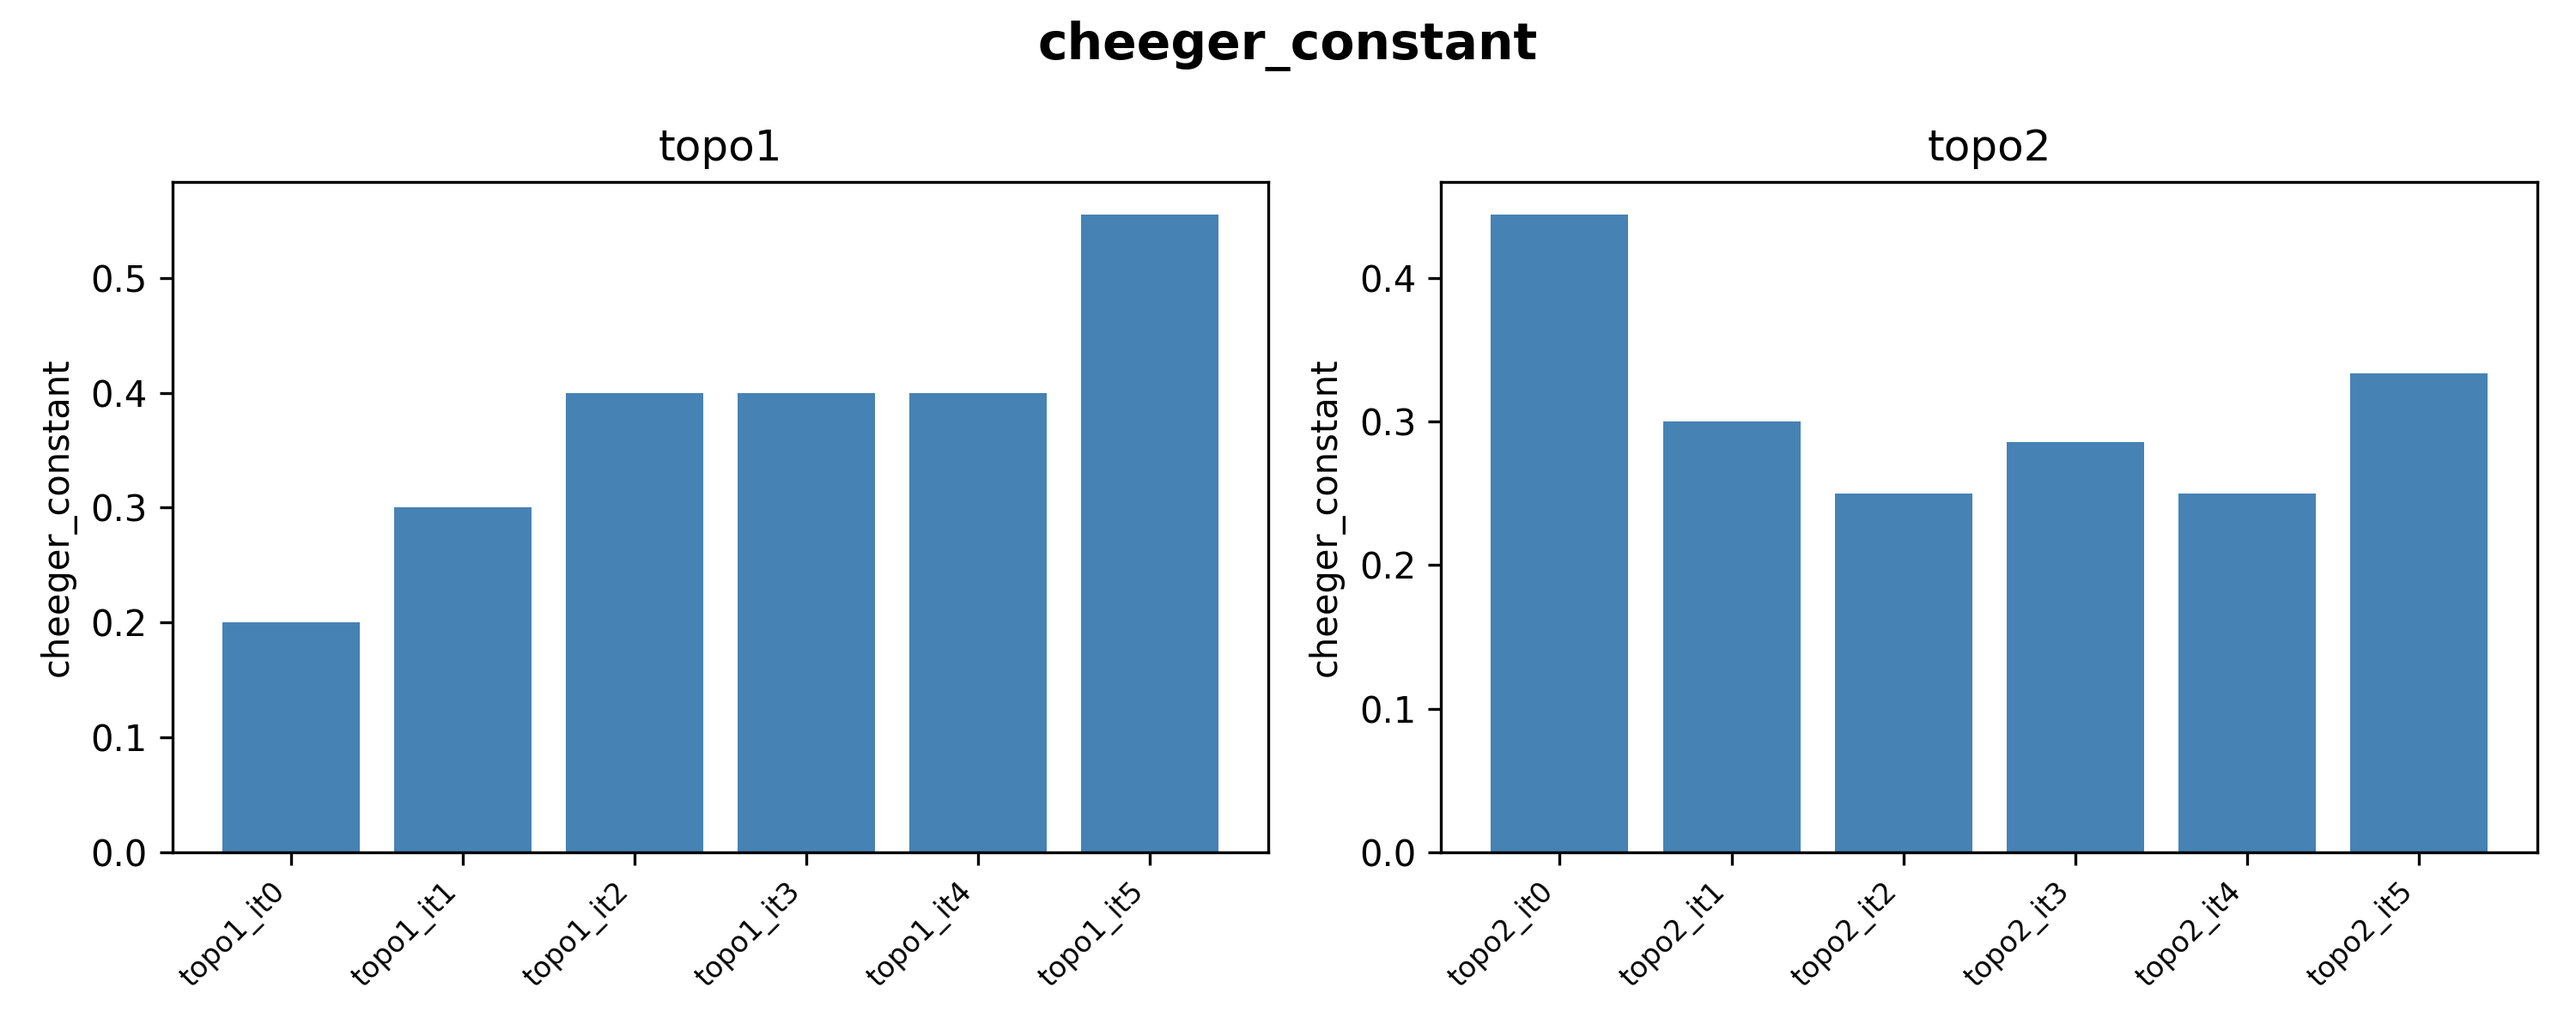
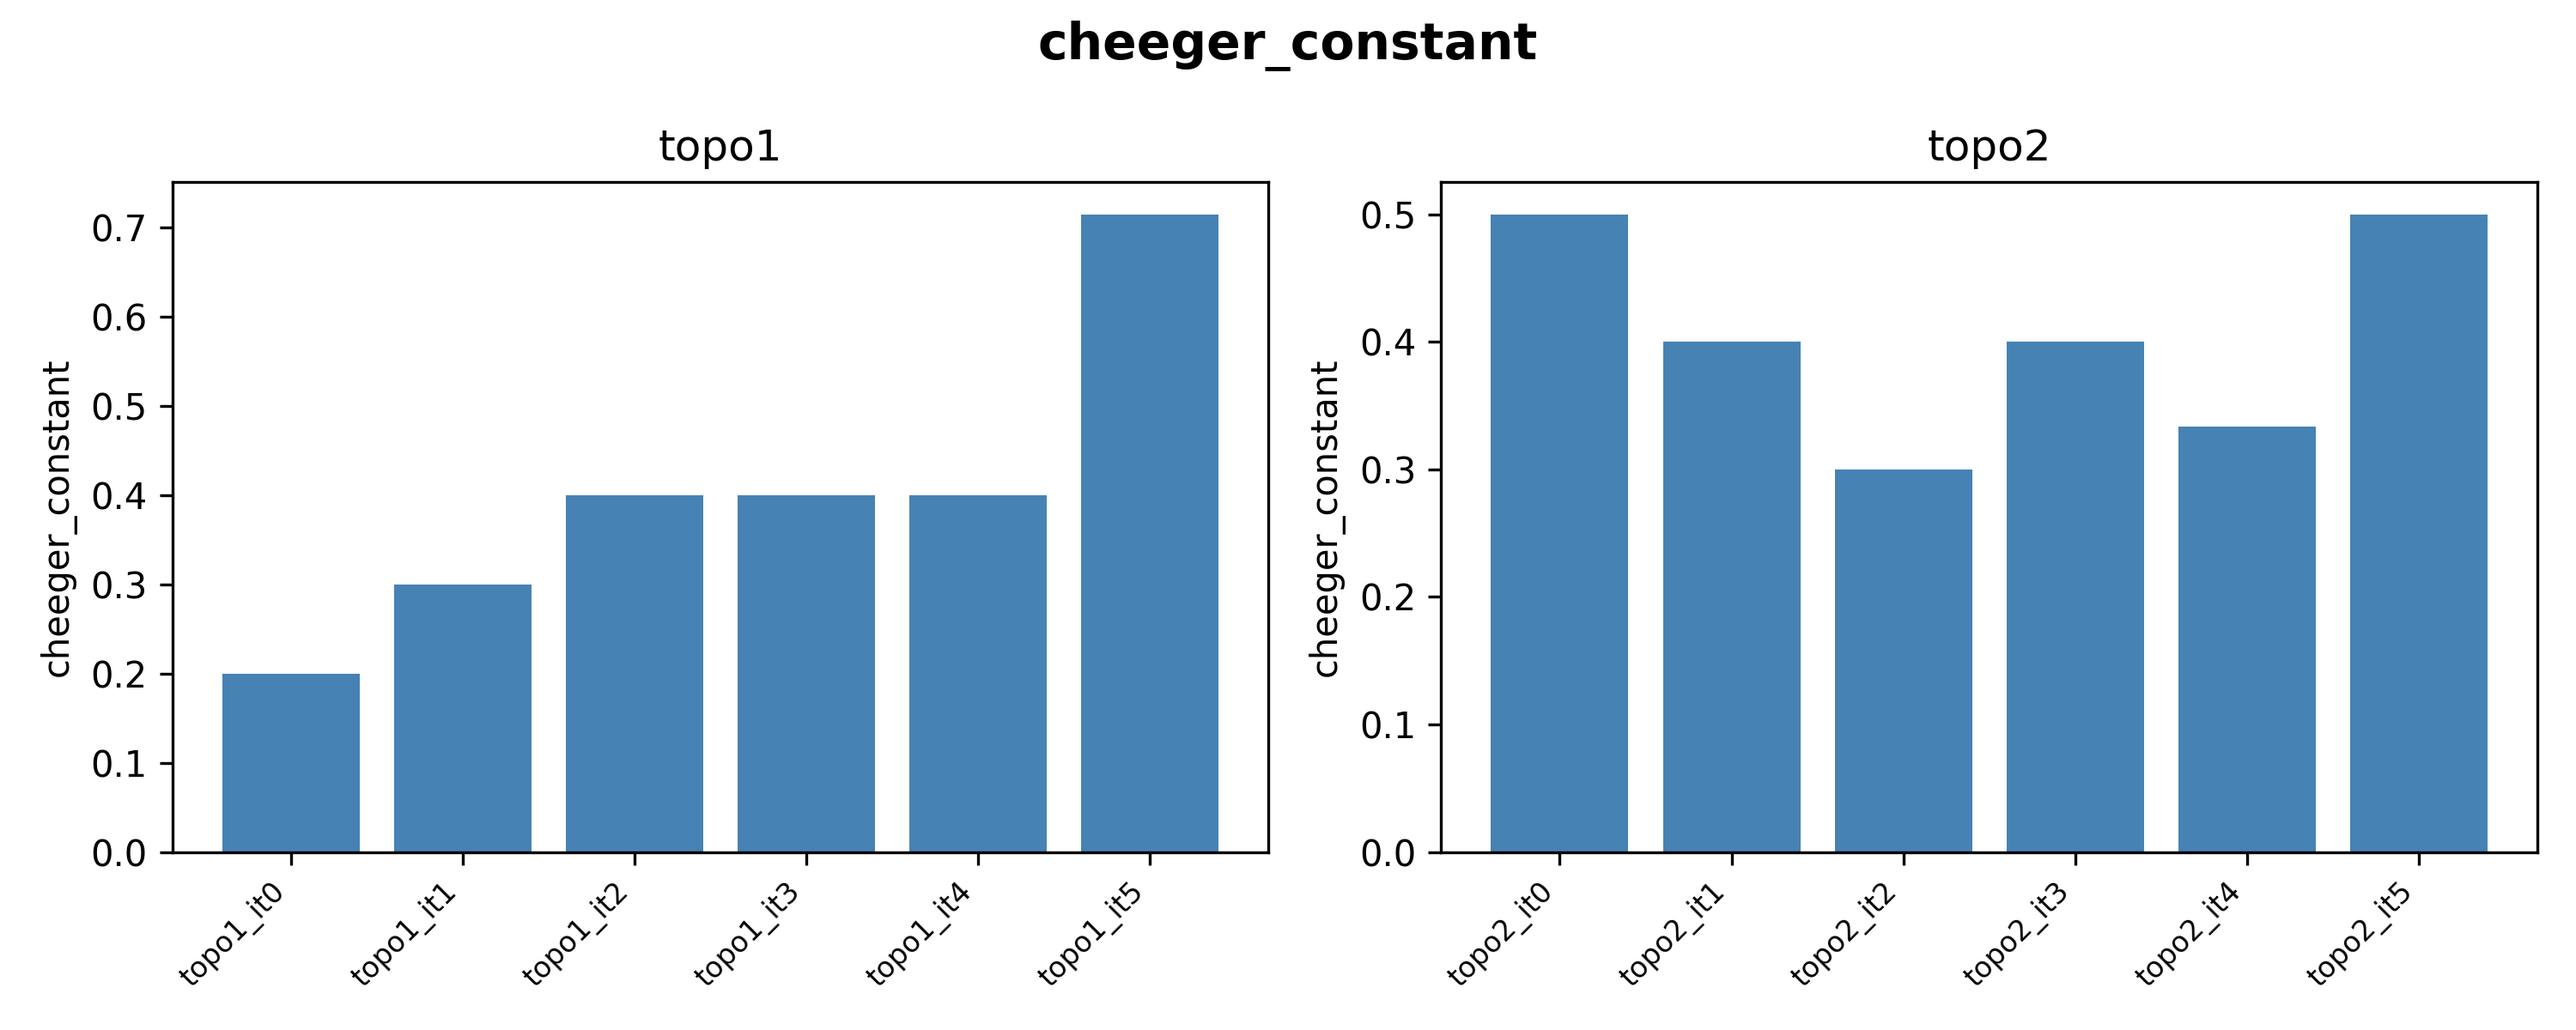
refactored optimizer code

diff --git a/scripts/network-partition-scipy.py b/scripts/network-partition-scipy.py
@@ -9,7 +9,7 @@ import argparse
 import matplotlib.pyplot as plt
 
 NR_PASSES = 5
-R_VALUES = [0.051, 0.15, 0.25, 0.35, 0.45]
+R_VALUES = [0.05, 0.15, 0.25, 0.35, 0.45]
 M = 0.05
 
 # --- Visualization / main (unchanged) ----------------------------------------
@@ -93,7 +93,11 @@ def initial_partition(n, r, mask_nodes):
     r = min(1-r, r)
     k = round(len(perm) * r)
     k = max(1, k)
-    return perm[:k]
+    A_idx = perm[:k]
+    assignment = torch.ones(n, dtype=torch.int32)
+    assignment[A_idx] = -1
+    assignment[mask_nodes] = 0
+    return assignment
 
 def calculate_prospective_cut_sizes(assignment, mask_bool):
     num_neg_total = (assignment == -1).sum().item()
@@ -120,10 +124,6 @@ def update_balanced(balanced, assignment, r, mask_bool):
 
 def partition_pass(adj_sp, r, mode="min", mask_nodes=[]):
     n = adj_sp.shape[0]
-    if n == 0:
-        return None
-
-    assert adj_sp.shape == (n, n)
 
     mask_bool = torch.zeros(n, dtype=torch.bool)
     mask_bool[mask_nodes] = True
@@ -131,11 +131,7 @@ def partition_pass(adj_sp, r, mode="min", mask_nodes=[]):
     # filter masked nodes from adjacency
     adj_sp = initialize_adj_matrix(adj_sp, mask_nodes, n)
 
-    # initial assignment
-    A_idx = initial_partition(n, r, mask_nodes)
-    assignment = torch.ones(n, dtype=torch.int32)
-    assignment[A_idx] = -1
-    assignment[mask_nodes] = 0
+    assignment = initial_partition(n, r, mask_nodes)
 
     moveable = torch.ones(n, dtype=torch.bool)
     moveable[mask_nodes] = False
@@ -152,15 +148,11 @@ def partition_pass(adj_sp, r, mode="min", mask_nodes=[]):
     while (moveable & balanced).any().item():
         num_neg, num_pos, _ = calculate_prospective_cut_sizes(assignment, mask_bool)
         min_size = torch.minimum(num_neg, num_pos).float()
-        print("num neg: ", num_neg)
-        print("num pos: ", num_pos)
-
+    
         row_sums = row_sums_from_cut(adj_sp, cut_values, n)
         gains = -row_sums / min_size if mode == "min" else row_sums / min_size
 
         candidates = torch.where(moveable & balanced)[0]
-        if candidates.numel() == 0:
-            break
 
         max_vertex = int(candidates[torch.argmax(gains[candidates])].item())
         assignment[max_vertex] *= -1
@@ -173,20 +165,13 @@ def partition_pass(adj_sp, r, mode="min", mask_nodes=[]):
         moveable[max_vertex] = False
 
         cut = create_cut(adj_sp, cut_values, assignment)
-        print("cut: ", cut)
         ch = cheeger(*cut)
         if (mode == "min" and ch < opt_cut[0]) or (mode == "max" and ch > opt_cut[0]):
             opt_cut = (ch, torch.where(assignment == -1)[0].tolist(), cut_values.copy())
 
     return opt_cut
 
-# --- Aggregate Min Adjacency Matrix ------------------------------------------
-
-# the min_adj_sp is an adjacency matrix with the minimum cut edges removed
-# it must always correspond to the current minimum cut, meaning it has 
-# the most edges present of all possible min_adj_sp
-# the agg_adj_sp is all min_adj_sp equal and minimum size aggregated, meaning
-# all minimum edges are removed from it.
+# --- Aggregate Min Cut Edges ------------------------------------------------
 
 def get_cur_min_edges(min_cut_data):
     return -np.minimum(min_cut_data, 0)
@@ -247,7 +232,7 @@ def run_network_partitioning(adj_mat, mode="min", mask_nodes=[]):
     results = {k: v for k, v in results.items() if v is not None}
     if not results:
         return None
-    best_r = max(results.keys(), key=lambda k: results[k]["cheeger"] if mode == "min" else -results[k]["cheeger"])
+    best_r = max(results.keys(), key=lambda k: results[k]["cheeger"] if mode == "max" else -results[k]["cheeger"])
     return results[best_r]
 
 
@@ -284,7 +269,7 @@ def get_global_max_cut(agg_adj_sp, list_a, list_b):
     return max_res, inactive_partition, active_partition
 
 def build_validity_matrix(adj_sp, u_partition, v_partition):
-    n = adj_sp.nnz
+    n = adj_sp.shape[0]
     can_connect_sp = build_can_connect_matrix(n)
 
     u_partition_diag = scipy.sparse.diags([1.0 if i in set(u_partition) else 0.0 for i in range(n)])
@@ -307,12 +292,14 @@ def find_anchor_node(max_cut_sp, valid_sp, n):
     u = int(np.argmax(u_scores))
     return u
 
-def find_new_node(adj_sp, agg_adj_sp, valid_sp):
-    n = adj_sp.nnz
-    # v: new node to connect to u
+def find_new_node(adj_sp, agg_adj_sp, valid_sp, u):
+    n = adj_sp.shape[0]
+    # only consider columns that are valid for this specific u
+    u_row = valid_sp.getrow(u)
+    valid_cols = u_row.indices  # only cols where valid_sp[u, col] != 0
+
     col_cut_counts = np.array((agg_adj_sp - adj_sp).sum(axis=0)).flatten()
     v_scores = np.zeros(n)
-    valid_cols = np.unique(valid_sp.tocoo().col)
     v_scores[valid_cols] = adj_sp.nnz + col_cut_counts[valid_cols]
     v = int(np.argmax(v_scores))
     return v
@@ -327,15 +314,15 @@ def find_old_node(adj_sp, max_cut_sp, u):
     return v_old
 
 def find_old_and_new_edge(max_res, adj_sp, agg_adj_sp, u_partition, v_partition):
-    n = adj_sp.nnz
-    max_adj_sp = initialize_adj_matrix(agg_adj_sp, u_partition, n)
+    n = adj_sp.shape[0]
+    max_adj_sp = initialize_adj_matrix(agg_adj_sp, v_partition, n)
     max_cut_values = max_res["cut_values"]
 
     valid_sp = build_validity_matrix(adj_sp, u_partition, v_partition)
     max_cut_sp = scipy.sparse.coo_matrix((max_cut_values, (max_adj_sp.row, max_adj_sp.col)), shape=(n, n))
 
     u = find_anchor_node(max_cut_sp, valid_sp, n)
-    v = find_new_node(adj_sp, agg_adj_sp, valid_sp)
+    v = find_new_node(adj_sp, agg_adj_sp, valid_sp, u)
     v_old = find_old_node(adj_sp, max_cut_sp, u)
 
     highlight_nodes(G, {u}, color="blue")
@@ -362,6 +349,7 @@ def iteration(G, path, iteration):
 
     max_res, inactive_partition, active_partition = get_global_max_cut(adj_mat_no_min, min_partition, list(set(G.nodes()) - min_set_a))
 
+    print(f"min cheeger: {min_res['cheeger']:.6f}, max cheeger: {max_res['cheeger']:.6f}")
     if (max_res["cheeger"] <= min_res["cheeger"]):
         return G, False
 
